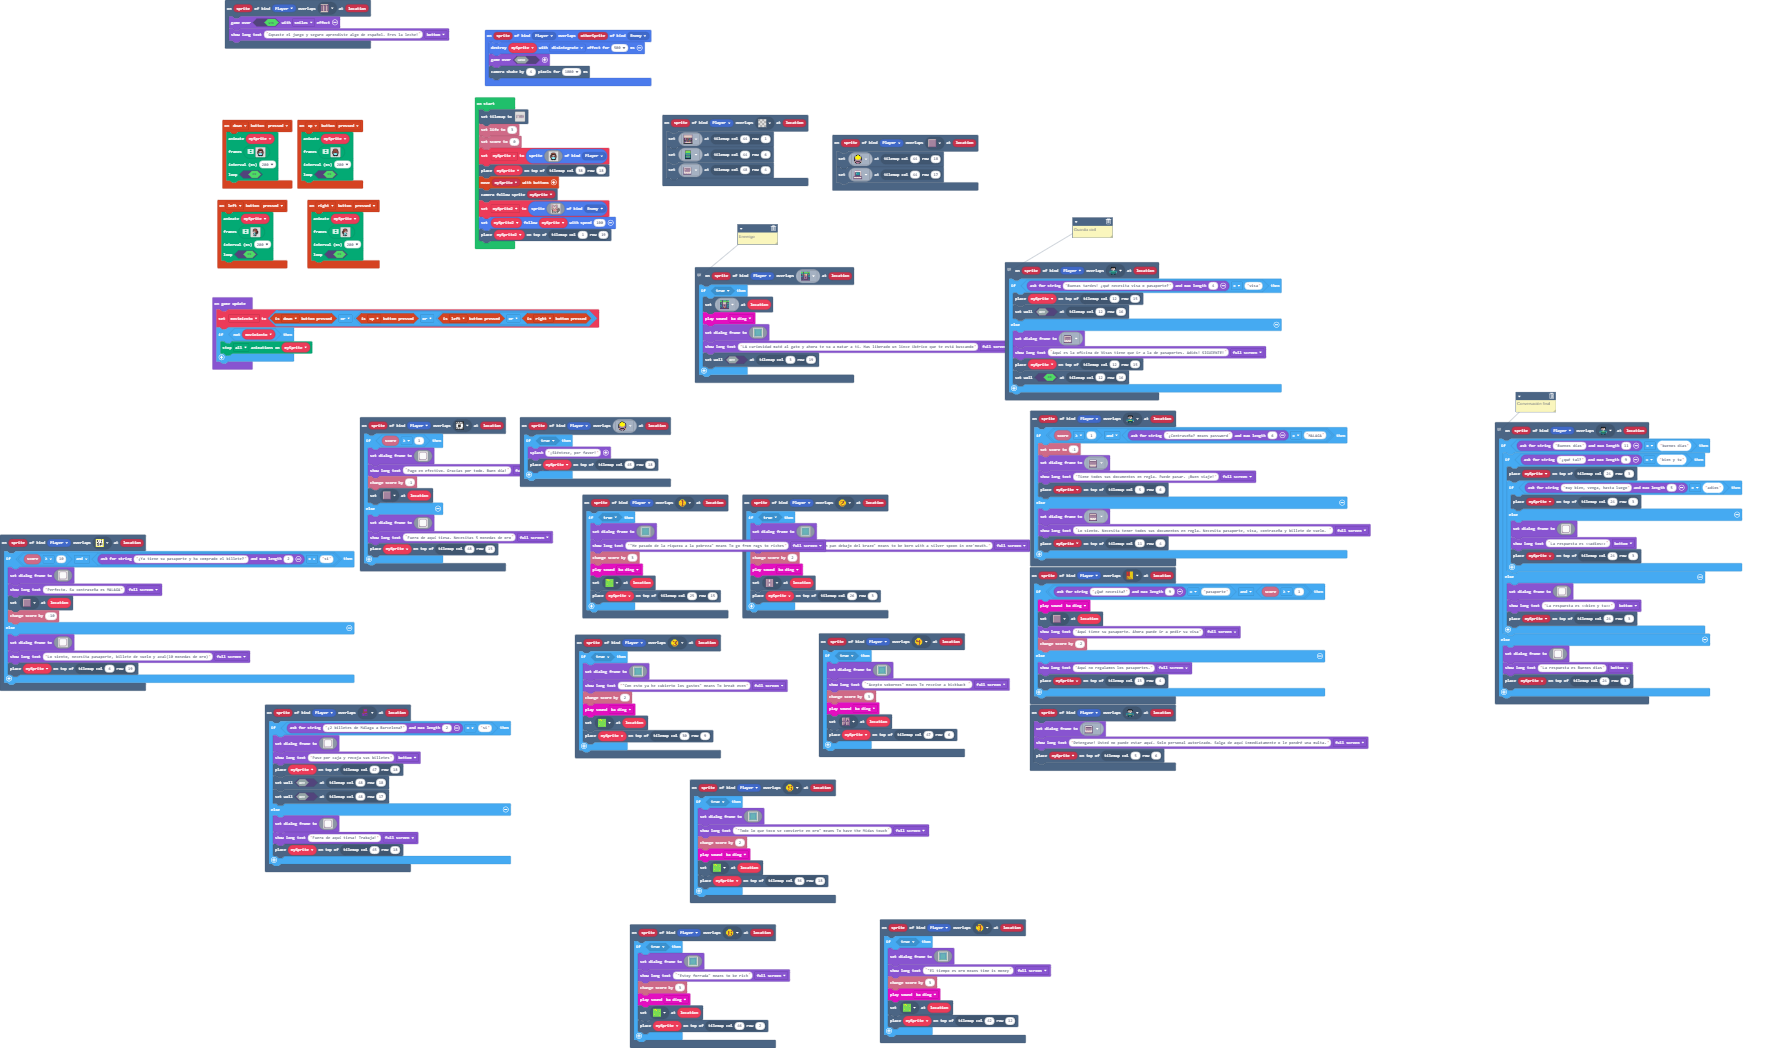
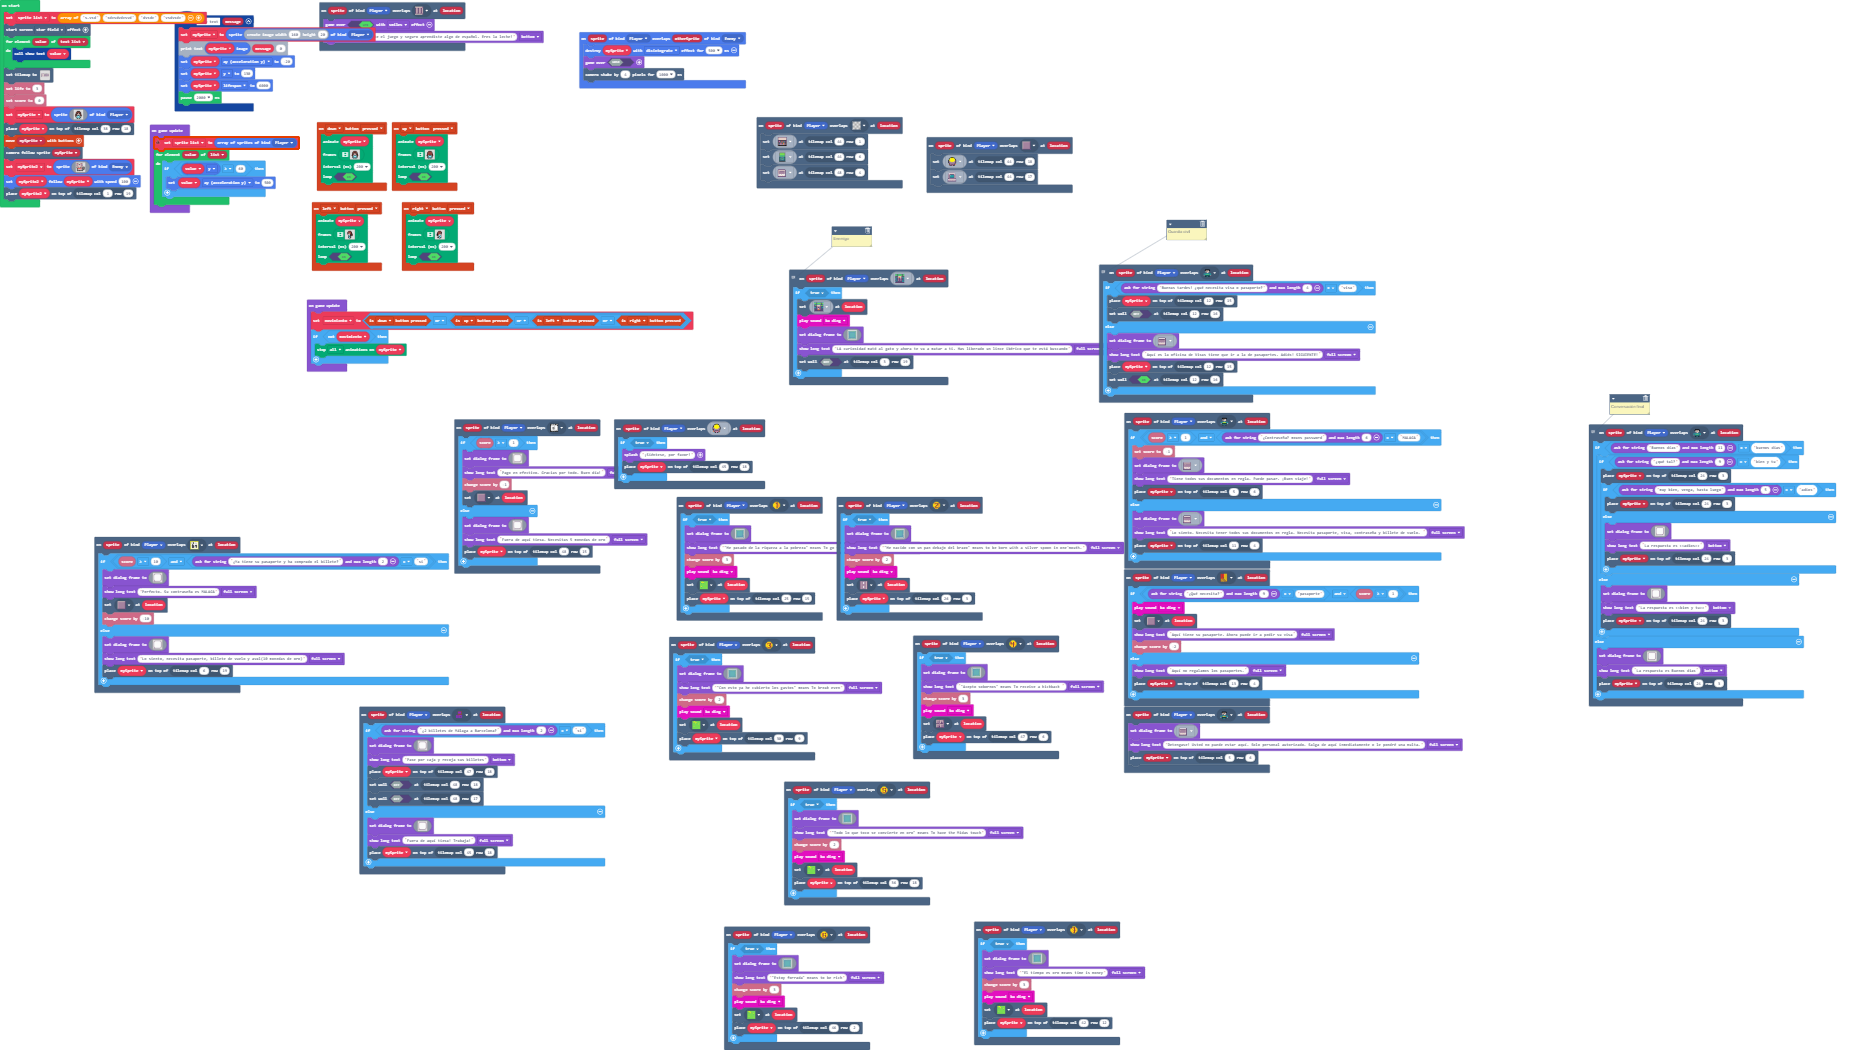
Update pxt.json, main.blocks, main.ts

Changed region(s): [[0.0, 0.0, 0.8029, 1.0], [0.8338, 0.3664, 0.9882, 0.6718], [0.9573, 0.5191, 0.9882, 0.5496]]

diff --git a/main.ts b/main.ts
@@ -1,3 +1,5 @@
+let text_list: string[] = []
+let list2: Sprite[] = []
 scene.onOverlapTile(SpriteKind.Player, myTiles.tile2, function (sprite, location) {
     if (info.score() >= 1 && game.askForString("¿Contraseña? means password", 6) == "MALAGA") {
         info.setScore(-1)
@@ -10,6 +12,14 @@ scene.onOverlapTile(SpriteKind.Player, myTiles.tile2, function (sprite, location
         tiles.placeOnTile(mySprite, tiles.getTileLocation(11, 4))
     }
 })
+function show_text2 (message: string) {
+    mySprite = sprites.create(image.create(160, 20), SpriteKind.Player)
+    images.printText(mySprite.image, message, 0)
+    mySprite.ay = -20
+    mySprite.y = 130
+    mySprite.lifespan = 6000
+    pause(2000)
+}
 scene.onOverlapTile(SpriteKind.Player, myTiles.tile30, function (sprite, location) {
     if (true) {
         game.setDialogFrame(img`
@@ -1159,6 +1169,11 @@ sprites.onOverlap(SpriteKind.Player, SpriteKind.Enemy, function (sprite, otherSp
 })
 let movimiento = false
 let mySprite: Sprite = null
+let sprite_list2 = ["s.vsd", "sdvsdvdvsvd", "dvsdv", "vsdvsdv"]
+effects.starField.startScreenEffect()
+for (let value of text_list) {
+    show_text2(value)
+}
 tiles.setTilemap(tilemap`level`)
 info.setLife(3)
 info.setScore(0)
@@ -1201,6 +1216,14 @@ let mySprite2 = sprites.create(img`
     `, SpriteKind.Enemy)
 mySprite2.follow(mySprite, 100)
 tiles.placeOnTile(mySprite2, tiles.getTileLocation(1, 19))
+game.onUpdate(function () {
+    sprite_list2 = sprites.allOfKind(SpriteKind.Player)
+    for (let value of list2) {
+        if (value.y >= 60) {
+            value.ay = 500
+        }
+    }
+})
 game.onUpdate(function () {
     movimiento = controller.down.isPressed() || (controller.up.isPressed() || (controller.left.isPressed() || controller.right.isPressed()))
     if (!(movimiento)) {
